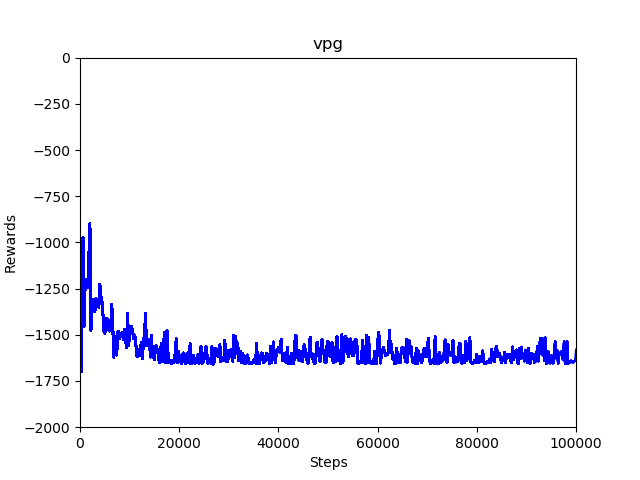
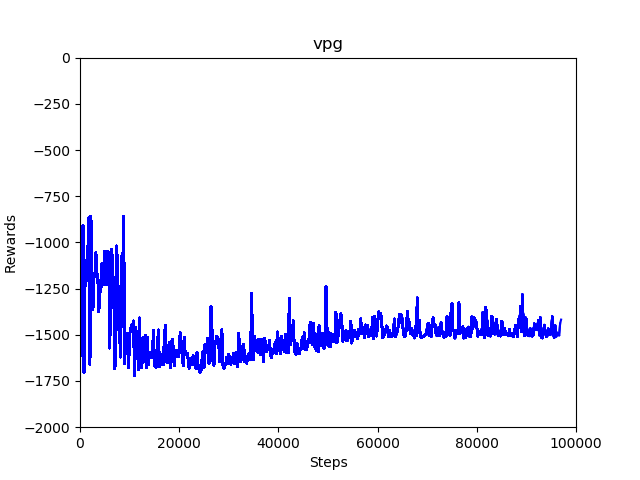
Fix TD-error + advantage for TRPO + PPO

Changed region(s): [[0.125, 0.4375, 0.9062, 0.7812]]

diff --git a/ppo.py b/ppo.py
@@ -37,8 +37,8 @@ for step in pbar:
         for transition in reversed(D):
           reward_to_go = transition['reward'] + (1 - transition['done']) * (DISCOUNT * reward_to_go)
           transition['reward_to_go'] = reward_to_go
-          td_error = transition['reward'] + (1 - transition['done']) * (DISCOUNT * next_value - transition['value'])
-          advantage = td_error + DISCOUNT * TRACE_DECAY * advantage
+          td_error = transition['reward'] + (1 - transition['done']) * DISCOUNT * next_value - transition['value']
+          advantage = td_error + (1 - transition['done']) * DISCOUNT * TRACE_DECAY * advantage
           transition['advantage'] = advantage
           next_value = transition['value']
       # Extra step: turn trajectories into a single batch for efficiency (valid for feedforward networks)

diff --git a/trpo.py b/trpo.py
@@ -61,8 +61,8 @@ for step in pbar:
         for transition in reversed(D):
           reward_to_go = transition['reward'] + (1 - transition['done']) * (DISCOUNT * reward_to_go)
           transition['reward_to_go'] = reward_to_go
-          td_error = transition['reward'] + (1 - transition['done']) * (DISCOUNT * next_value - transition['value'])
-          advantage = td_error + DISCOUNT * TRACE_DECAY * advantage
+          td_error = transition['reward'] + (1 - transition['done']) * DISCOUNT * next_value - transition['value']
+          advantage = td_error + (1 - transition['done']) * DISCOUNT * TRACE_DECAY * advantage
           transition['advantage'] = advantage
           next_value = transition['value']
       # Extra step: turn trajectories into a single batch for efficiency (valid for feedforward networks)
